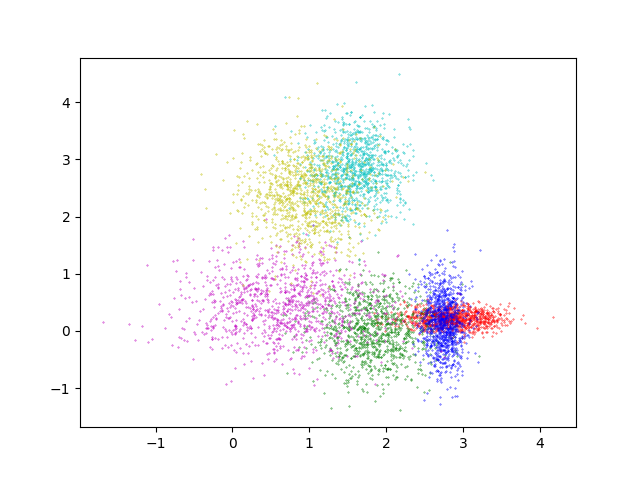
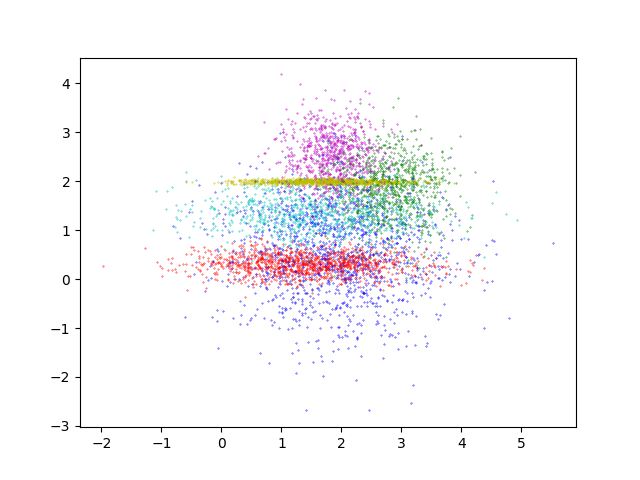
commit the implmentation of GMM

diff --git a/GMM/GMM_implementation.py b/GMM/GMM_implementation.py
@@ -1,0 +1,66 @@
+import numpy as np
+
+K = 6
+
+from torch.utils.tensorboard import SummaryWriter
+from torch.nn.functional import softmax
+from scipy.stats import multivariate_normal as multi_normal
+import torch
+writerlog = "./log/GMM"
+class GMMAgent:
+    def __init__(self) -> None:
+        self.K = K
+        self.possibility = softmax(torch.rand(self.K))
+        self.writer = SummaryWriter(writerlog)
+        self.mu = torch.rand((self.K,2))
+        self.sigma = torch.rand((self.K,2))
+        self.data = torch.from_numpy(np.load('data.npz')['data'])
+        self.pointspossibility = torch.zeros((self.data.shape[0],self.K))
+        
+        # self.groundtruthmu = sel
+    
+    def Estep(self):
+        '''
+        计算每个数据点属于每个分布的概率
+        p_{ij} =\frac{pi_i N(X_i|\mu_j,\sima_j)}{\sum_{k=1}^K pi_k N(X_i|\mu_k,\sigma_k)},
+        p_{ij}数据点i属于高斯分布j的概率
+        '''
+        for i in range(K):
+            self.pointspossibility[:,i] = torch.from_numpy(multi_normal.pdf(self.data,self.mu[i],self.sigma[i]))
+        self.pointspossibility /= torch.sum(self.pointspossibility,-1).unsqueeze(-1)
+        print(self.pointspossibility[0])
+    
+    def MStep(self):
+        '''
+        根据概率$p_ij$计算新的聚类中心/计算均值和方差
+        均值$mu_j = \sum_i p_ij x_i$
+        方差$sigma_j = \sum_i p_ij (x_i-mu_j) $
+        '''
+        for i in range(self.K):
+            # P = self.possibility[:,i]
+            P = self.pointspossibility[:,i]
+            x = self.data[:,0]
+            y = self.data[:,1]
+            self.mu[i] = torch.tensor([x.dot(P),y.dot(P)])/P.sum()
+            print(self.mu[i])
+            self.sigma[i] = torch.einsum('ij,i->j',[(self.data - self.mu[i])**2,P])
+    
+
+    def learn(self):
+        EPOCH = 128
+        from tqdm import tqdm
+        for epoch in tqdm(range(EPOCH)):
+            self.Estep()
+            self.MStep()
+            self.writer.add_scalar('mu_x',self.mu[0][0],epoch)
+            self.writer.add_scalar('mu_y',self.mu[0][1],epoch)
+        self.possibility = self.pointspossibility.mean(0)
+        # for i in range(self.K):
+        #     self.possibility[i] = self.pointspossibility[:,i]
+            
+if __name__ == "__main__":
+    Agent = GMMAgent()
+    Agent.learn()
+
+        
+

diff --git a/GMM/generate_distribution.py b/GMM/generate_distribution.py
@@ -14,22 +14,45 @@ K = 6
 for _ in range(K):
     mu.append([gamma * random(),gamma * random()])
     sigma.append( [random(),random()])
-np.save("mu.npy",np.array(mu))
-np.save('sigma.npy',np.array(sigma))
+# np.save("mu.npy",np.array(mu))
+# np.save('sigma.npy',np.array(sigma))
 
 
 color = ['r','g','b','c','m','y']
 
-N = 1024 
+N = 1024
+M = 6
+from torch.distributions import Categorical
+from torch.nn.functional import softmax
+import torch
+possibility = torch.rand(M)
+possibility = softmax(possibility)
+cate = Categorical(possibility)
 import matplotlib.pyplot as plt
-for i in range(K):
-    col = color[i]
-    x_list = []
-    y_list = []
-    for _ in range(N):
-        point = torch.normal(mu[i],sigma[i])
-        x_list.append(point[0])
-        y_list.append(point[1])
-    plt.scatter(x_list,y_list,s=0.1,c=col)
-np.save("data.npy",np.array([x_list,y_list]))
+# possiblity = 
+from random import choice
+# choice(range(5),p=[0.1,0.1,0.1,0.2,0.5])
+from tqdm import tqdm
+data = []
+for _ in tqdm(range(K * N)):
+    index = cate.sample().item()
+    c = color[index]
+    point = torch.normal(torch.tensor(mu[index]),torch.tensor(sigma[index]))
+    data.append(point.numpy())
+    plt.scatter(point[0],point[1],c=c,s = 0.1)
+possibility = possibility.numpy()
+np.savez('data.npz',mu=np.array(mu),data = np.array(data),sigma = np.array(sigma),possibility = np.array(possibility))
+'''
+info:mu,sigma,possibility,origin data
+'''
+# for i in range(K):
+#     col = color[i]
+#     x_list = []
+#     y_list = []
+#     for _ in range(N):
+#         point = torch.normal(torch.tensor(mu[i]),torch.tensor(sigma[i]))
+#         x_list.append(point[0])
+#         y_list.append(point[1])
+#     plt.scatter(x_list,y_list,s=0.1,c=col)
+# np.save("data.npy",np.array([x_list,y_list]))
 plt.savefig('GMM_groundtruth.png')

diff --git a/pythonimport/called/called.py b/pythonimport/called/called.py
@@ -1,0 +1,3 @@
+from random import random
+def getcall():
+    return random()
